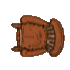
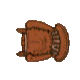
added images for swords, daggers, and shelves. Everything has an image except pirates now.

Changed region(s): [[0.1429, 0.2, 0.9429, 0.8286]]

diff --git a/src/com/kovacs/swashbuckler/ClientGUI.java b/src/com/kovacs/swashbuckler/ClientGUI.java
@@ -13,8 +13,9 @@ import java.util.Queue;
 import javax.swing.JFrame;
 import com.kovacs.swashbuckler.game.Board;
 import com.kovacs.swashbuckler.game.BoardCoordinate;
-import com.kovacs.swashbuckler.game.entity.Chair;
 import com.kovacs.swashbuckler.game.entity.Entity;
+import com.kovacs.swashbuckler.game.entity.Entity.EntityType;
+import com.kovacs.swashbuckler.game.entity.Shelf;
 import com.kovacs.swashbuckler.game.entity.Table;
 
 /*
@@ -223,60 +224,22 @@ public class ClientGUI extends Canvas
 		// g.setColor(foregroundColor);
 		// g.fillRect(344, 20, 636, 680);
 		g.drawImage(Images.tavernFloor, 344, 20, 636, 680, null);
-		g.setColor(backgroundColor);
-		for (int i = 0; i < 15; i++)
-			g.fillRect(353 + i * 44, 29, 2, 662);
-		for (int i = 0; i < 16; i++)
-			g.fillRect(353, 29 + i * 44, 618, 2);
+//		g.setColor(backgroundColor);
+//		for (int i = 0; i < 15; i++)
+//			g.fillRect(353 + i * 44, 29, 2, 662);
+//		for (int i = 0; i < 16; i++)
+//			g.fillRect(353, 29 + i * 44, 618, 2);
 		for (Entity entity : board.allEntities(Entity.class))
 			for (BoardCoordinate coordinate : entity.coordinates)
 			{
 				int xDrawPosition = (coordinate.number - 1) * 44 + 355;
 				int yDrawPosition = (coordinate.letter - 'a') * 44 + 31;
-				switch (entity.type)
-				{
-					case CHAIR:
-						g.setColor(Color.DARK_GRAY);
-						g.drawImage(((Chair) entity).getImage(), xDrawPosition, yDrawPosition, 42, 42, null);
-						break;
-					case PIRATE:
-						g.setColor(Color.GREEN);
-						g.fillOval(xDrawPosition, yDrawPosition, 42, 40);
-						break;
-					case MUG:
-						g.setColor(Color.BLUE);
-						g.drawImage(Images.mug, xDrawPosition, yDrawPosition, 42, 42, null);
-						break;
-					case DAGGER:
-						g.setColor(Color.RED);
-						g.fillOval(xDrawPosition, yDrawPosition, 42, 42);
-						break;
-					case SHELF:
-						g.setColor(Color.YELLOW);
-						g.fillOval(xDrawPosition, yDrawPosition, 42, 42);
-						break;
-					case STAIRS:
-						break;
-					case BALCONY:
-						break;
-					case WINDOW:
-						break;
-					case TABLE:
-						g.setColor(new Color(0x4D320D));
-						g.drawImage(((Table) entity).getDrawImage(coordinate), xDrawPosition, yDrawPosition, 42, 42,
-								null);
-						break;
-					case SWORD:
-						g.setColor(Color.WHITE);
-						g.fillOval(xDrawPosition, yDrawPosition, 42, 42);
-						break;
-					case BROKEN_GLASS:
-						g.setColor(Color.BLACK);
-						g.fillOval(xDrawPosition, yDrawPosition, 42, 42);
-						break;
-					default:
-						throw new RuntimeException("Unreachable code.");
-				}
+				if (entity.type == EntityType.TABLE)
+					g.drawImage(((Table) entity).getDrawImage(coordinate), xDrawPosition, yDrawPosition, 42, 42, null);
+				else if (entity.type == EntityType.SHELF)
+					g.drawImage(((Shelf) entity).getDrawImage(coordinate), xDrawPosition, yDrawPosition, 42, 42, null);
+				else
+					g.drawImage(entity.getImage(), xDrawPosition, yDrawPosition, 42, 42, null);
 			}
 	}
 

diff --git a/src/com/kovacs/swashbuckler/game/entity/Shelf.java b/src/com/kovacs/swashbuckler/game/entity/Shelf.java
@@ -1,0 +1,73 @@
+package com.kovacs.swashbuckler.game.entity;
+
+import java.awt.image.BufferedImage;
+import java.io.Serializable;
+import com.kovacs.swashbuckler.Images;
+import com.kovacs.swashbuckler.Utility;
+import com.kovacs.swashbuckler.Utility.Direction;
+import com.kovacs.swashbuckler.game.BoardCoordinate;
+
+public class Shelf extends Entity implements Serializable
+{
+	private static final long serialVersionUID = 2833163871523422344L;
+
+	/*
+	 * Directions so that the correct image can be drawn.
+	 */
+	private Direction wall;
+
+	public Shelf(EntityType type, Direction wall, BoardCoordinate... boardCoordinates)
+	{
+		super(type, boardCoordinates);
+		this.wall = wall;
+	}
+
+	@Override
+	public BufferedImage getImage()
+	{
+		throw new RuntimeException(
+				"Shelves must be supplied with coordinates in order to determine their draw images.");
+	}
+
+	/*
+	 * Determines which shelf image should be drawn.
+	 */
+	public BufferedImage getDrawImage(BoardCoordinate coordinate)
+	{
+		Direction direction = null;
+		for (BoardCoordinate neighborCoordinate : coordinates)
+		{
+			Direction neighborDirection = Utility.directionTo(coordinate, neighborCoordinate);
+			if (neighborDirection != null)
+				direction = neighborDirection;
+		}
+		if (wall == Direction.EAST)
+		{
+			if (direction == Direction.SOUTH)
+				return Images.shelfEastTop;
+			else
+				return Images.shelfEastBottom;
+		}
+		else if (wall == Direction.WEST)
+		{
+			if (direction == Direction.SOUTH)
+				return Images.shelfWestTop;
+			else
+				return Images.shelfWestBottom;
+		}
+		else if (wall == Direction.NORTH)
+		{
+			if (direction == Direction.EAST)
+				return Images.shelfNorthLeft;
+			else
+				return Images.shelfNorthRight;
+		}
+		else
+		{
+			if (direction == Direction.EAST)
+				return Images.shelfSouthLeft;
+			else
+				return Images.shelfSouthRight;
+		}
+	}
+}

diff --git a/src/com/kovacs/swashbuckler/game/Board.java b/src/com/kovacs/swashbuckler/game/Board.java
@@ -12,6 +12,7 @@ import com.kovacs.swashbuckler.Utility.Direction;
 import com.kovacs.swashbuckler.game.entity.Chair;
 import com.kovacs.swashbuckler.game.entity.Entity;
 import com.kovacs.swashbuckler.game.entity.Entity.EntityType;
+import com.kovacs.swashbuckler.game.entity.Shelf;
 import com.kovacs.swashbuckler.game.entity.Table;
 
 /*
@@ -117,25 +118,25 @@ public class Board implements Serializable
 		{
 			BoardCoordinate base = new BoardCoordinate(Utility.randomElement(westWallOptions), 1);
 			if (!occupied(base) && !occupied(base.next(Direction.SOUTH)))
-				add(new Entity(EntityType.SHELF, base, base.next(Direction.SOUTH)));
+				add(new Shelf(EntityType.SHELF, Direction.WEST, base, base.next(Direction.SOUTH)));
 		}
 		if (Utility.rand() < .8)
 		{
 			BoardCoordinate base = new BoardCoordinate(Utility.randomElement(eastWallOptions), 14);
 			if (!occupied(base) && !occupied(base.next(Direction.SOUTH)))
-				add(new Entity(EntityType.SHELF, base, base.next(Direction.SOUTH)));
+				add(new Shelf(EntityType.SHELF, Direction.EAST, base, base.next(Direction.SOUTH)));
 		}
 		if (Utility.rand() < .8)
 		{
 			BoardCoordinate base = new BoardCoordinate('a', Utility.randomElement(northWallOptions));
 			if (!occupied(base) && !occupied(base.next(Direction.EAST)))
-				add(new Entity(EntityType.SHELF, base, base.next(Direction.EAST)));
+				add(new Shelf(EntityType.SHELF, Direction.NORTH, base, base.next(Direction.EAST)));
 		}
 		if (Utility.rand() < .8)
 		{
 			BoardCoordinate base = new BoardCoordinate('o', Utility.randomElement(southWallOptions));
 			if (!occupied(base) && !occupied(base.next(Direction.EAST)))
-				add(new Entity(EntityType.SHELF, base, base.next(Direction.EAST)));
+				add(new Shelf(EntityType.SHELF, Direction.SOUTH, base, base.next(Direction.EAST)));
 		}
 
 		// TODO: place chandeliers

diff --git a/src/com/kovacs/swashbuckler/Images.java b/src/com/kovacs/swashbuckler/Images.java
@@ -6,7 +6,8 @@ import javax.imageio.ImageIO;
 
 /*
  * This class just statically loads all the images so that they can be accessed
- * from anywhere.
+ * from anywhere. There aren't that many and they aren't that large, so this
+ * isn't a problem.
  */
 public class Images
 {
@@ -16,7 +17,13 @@ public class Images
 			table_S_short = loadImage("table_S_short.png"), table_N_short = loadImage("table_N_short.png"),
 			table_E_short = loadImage("table_E_short.png"), table_W_short = loadImage("table_W_short.png"),
 			tavernFloor = loadImage("tavern_floor.png"), mug = loadImage("mug.png"), chair_N = loadImage("chair_N.png"),
-			chair_S = loadImage("chair_S.png"), chair_W = loadImage("chair_W.png"), chair_E = loadImage("chair_E.png");
+			chair_S = loadImage("chair_S.png"), chair_W = loadImage("chair_W.png"), chair_E = loadImage("chair_E.png"),
+			sword = loadImage("sword.png"), dagger = loadImage("dagger.png"),
+			brokenGlass = loadImage("broken_glass.png"), shelfWestTop = loadImage("shelf_W_top.png"),
+			shelfWestBottom = loadImage("shelf_W_bottom.png"), shelfNorthLeft = loadImage("shelf_N_left.png"),
+			shelfNorthRight = loadImage("shelf_N_right.png"), shelfEastTop = loadImage("shelf_E_top.png"),
+			shelfEastBottom = loadImage("shelf_E_bottom.png"), shelfSouthRight = loadImage("shelf_S_right.png"),
+			shelfSouthLeft = loadImage("shelf_S_left.png");
 
 	/*
 	 * Loads and returns an image

diff --git a/src/com/kovacs/swashbuckler/game/entity/Entity.java b/src/com/kovacs/swashbuckler/game/entity/Entity.java
@@ -1,7 +1,9 @@
 package com.kovacs.swashbuckler.game.entity;
 
+import java.awt.image.BufferedImage;
 import java.io.Serializable;
 import java.util.ArrayList;
+import com.kovacs.swashbuckler.Images;
 import com.kovacs.swashbuckler.Utility.Direction;
 import com.kovacs.swashbuckler.game.BoardCoordinate;
 
@@ -73,9 +75,40 @@ public class Entity implements Serializable
 		}
 		return false;
 	}
-	
-	@Override public String toString()
+
+	@Override
+	public String toString()
 	{
 		return type.toString();
+	}
+
+	/*
+	 * Returns the proper image to draw. For stationary entities, returns null.
+	 * For entities that override getImage, throws an exception.
+	 */
+	public BufferedImage getImage()
+	{
+		switch (type)
+		{
+			case BROKEN_GLASS:
+				return Images.brokenGlass;
+			case DAGGER:
+				return Images.dagger;
+			case MUG:
+				return Images.mug;
+			case SWORD:
+				return Images.sword;
+			case BALCONY:
+			case STAIRS:
+			case WINDOW:
+				return null;
+			case TABLE:
+			case SHELF:
+			case PIRATE:
+			case CHAIR:
+				throw new RuntimeException(type.name() + " entities must be drawn with their own getImage methods.");
+			default:
+				throw new RuntimeException("Unreachable code.");
+		}
 	}
 }

diff --git a/src/com/kovacs/swashbuckler/game/entity/Table.java b/src/com/kovacs/swashbuckler/game/entity/Table.java
@@ -51,6 +51,15 @@ public class Table extends Entity implements Serializable
 	}
 
 	/*
+	 * Disable the superclass getImage method.
+	 */
+	@Override
+	public BufferedImage getImage()
+	{
+		throw new RuntimeException("Tables must be supplied with coordinates in order to determine their draw images.");
+	}
+
+	/*
 	 * Returns true if the table is 3 long and false if it's 2 long.
 	 */
 	private boolean isLong()

diff --git a/src/com/kovacs/swashbuckler/MouseInput.java b/src/com/kovacs/swashbuckler/MouseInput.java
@@ -46,7 +46,8 @@ public class MouseInput implements MouseMotionListener, MouseListener
 			for (Entity entity : ClientMain.main.gui.board.getEntities(new BoardCoordinate(letter, number)))
 				System.out.println("  " + entity);
 		}
-		ClientMain.main.gui.board = new Board();
+		if (e.getButton() == MouseEvent.BUTTON3)
+			ClientMain.main.gui.board = new Board();
 	}
 
 	@Override

diff --git a/src/com/kovacs/swashbuckler/game/entity/Chair.java b/src/com/kovacs/swashbuckler/game/entity/Chair.java
@@ -22,6 +22,7 @@ public class Chair extends Entity implements Serializable
 		this.direction = direction;
 	}
 
+	@Override
 	public BufferedImage getImage()
 	{
 		switch (direction)
